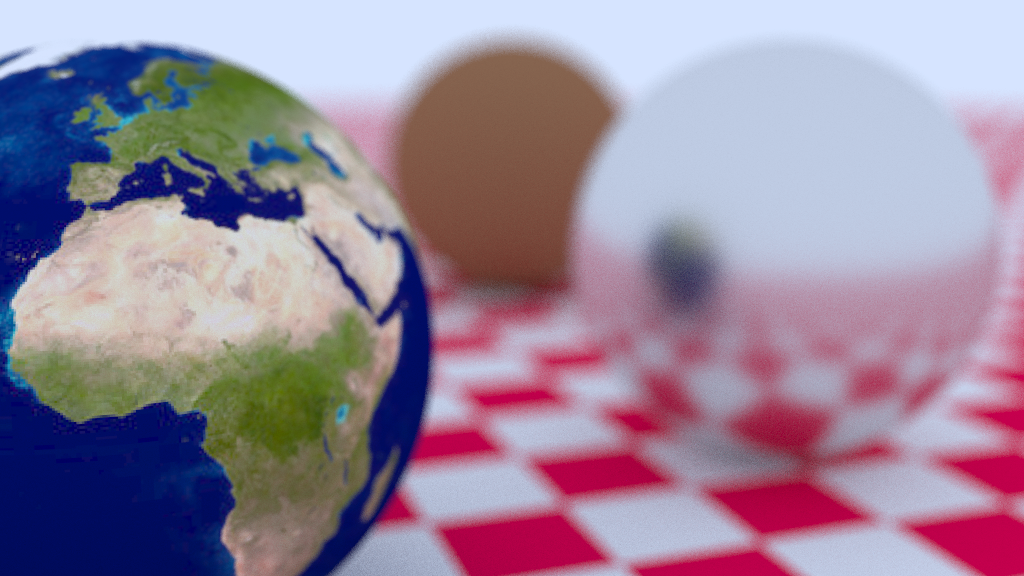
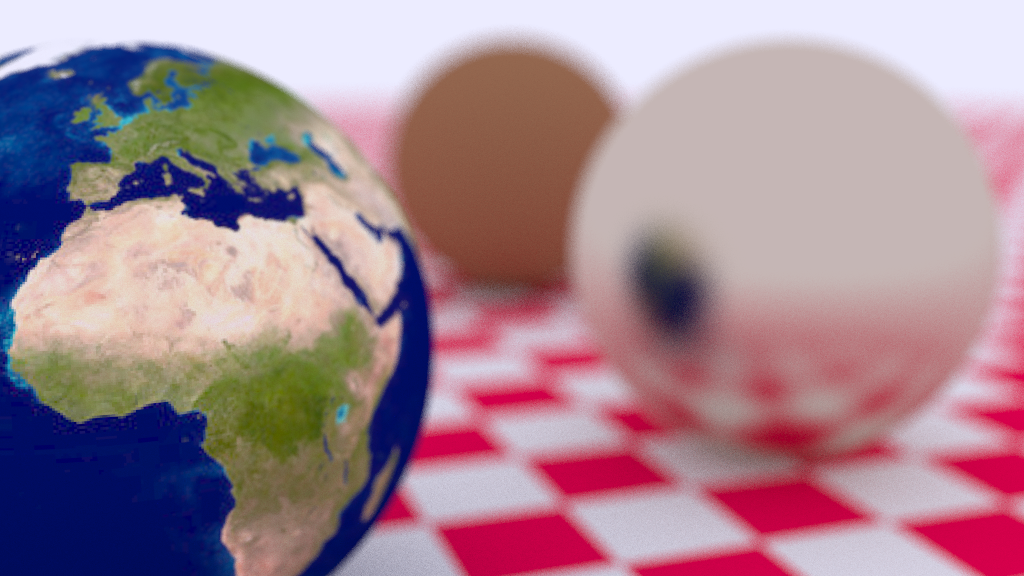
make texture generic so i can support both bump maps and normal maps

Changed region(s): [[0.5625, 0.0625, 0.9688, 0.8125], [0.75, 0.8125, 0.7812, 0.8438]]

diff --git a/src/main.rs b/src/main.rs
@@ -7,7 +7,7 @@ use path_tracer::{
     hittable::{Quad, Sphere, World},
     light::PointLight,
     material::{Diffuse, DiffuseLight, MaterialType, MixMaterial, Refractive, Specular},
-    texture::{CheckerTexture, ImageTexture},
+    texture::{CheckerTexture, ImageTexture, SolidTexture},
     vec3::{random_vector, random_vector_range, Vec3},
 };
 use rand::{thread_rng, Rng};
@@ -15,8 +15,9 @@ use rand::{thread_rng, Rng};
 fn balls_scene() {
     let mut world = World::new();
 
-    let checker_tex =
-        CheckerTexture::from_colors(0.32, Vec3::new(0.2, 0.3, 0.1), Vec3::new(0.9, 0.9, 0.9));
+    let tex1 = SolidTexture::new(Vec3::new(0.2, 0.3, 0.1));
+    let tex2 = SolidTexture::new(Vec3::new(0.9, 0.9, 0.9));
+    let checker_tex = CheckerTexture::new(0.32, Arc::new(tex1), Arc::new(tex2));
 
     let mat_ground = MaterialType::DIFFUSE(Diffuse::new(Arc::new(checker_tex)));
 
@@ -97,11 +98,12 @@ fn earth_scene() {
     let mat2 = MaterialType::DIFFUSE(Diffuse::from_rgb(Vec3::new(0.4, 0.2, 0.1)));
     world.add(Sphere::new_still(1.0, Vec3::new(0.0, 1.0, 0.0), mat2));
 
-    let mat3 = MaterialType::SPECULAR(Specular::from_rgb(Vec3::new(0.7, 0.6, 0.5), 0.0));
+    let mat3 = MaterialType::SPECULAR(Specular::from_rgb(Vec3::new(0.7, 0.6, 0.5), 0.5));
     world.add(Sphere::new_still(1.0, Vec3::new(4.0, 1.0, 0.0), mat3));
 
-    let checker_tex =
-        CheckerTexture::from_colors(0.62, Vec3::new(0.9, 0.0, 0.1), Vec3::new(0.9, 0.9, 0.9));
+    let tex1 = SolidTexture::new(Vec3::new(0.9, 0.0, 0.1));
+    let tex2 = SolidTexture::new(Vec3::new(0.9, 0.9, 0.9));
+    let checker_tex = CheckerTexture::new(0.62, Arc::new(tex1), Arc::new(tex2));
     let mat_ground = MaterialType::DIFFUSE(Diffuse::new(Arc::new(checker_tex)));
     world.add(Sphere::new_still(
         1000.0,
@@ -126,7 +128,7 @@ fn earth_scene() {
     camera.focal_length = 2.869817807;
     camera.defocus_angle = 2.5;
 
-    camera.ambient_light = Vec3::new(0.7, 0.8, 1.0);
+    camera.ambient_light = Vec3::new(0.85, 0.85, 1.0);
 
     camera.init();
     camera.render(&world, "demo/earth.png");
@@ -302,17 +304,17 @@ fn cornell_box_scene() {
 
     let mat = MaterialType::TEST(PrincipledBSDF::new(
         Vec3::new(0.65, 0.05, 0.05), // base_color,
-        0.01,                     // metallic,
-        0.01,                     // roughness,
-        0.01,                     // subsurface,
-        0.91,                     // specular,
-        0.91,                     // specular_tint,
-        1.5,                      // ior,
-        0.01,                     // spec_trans,
-        0.91,                     // sheen,
-        0.91,                     // sheen_tint,
-        0.91,                     // clearcoat,
-        0.01,                     // clearcoat_gloss,
+        0.01,                        // metallic,
+        0.01,                        // roughness,
+        0.01,                        // subsurface,
+        0.91,                        // specular,
+        0.91,                        // specular_tint,
+        1.5,                         // ior,
+        0.01,                        // spec_trans,
+        0.91,                        // sheen,
+        0.91,                        // sheen_tint,
+        0.91,                        // clearcoat,
+        0.01,                        // clearcoat_gloss,
     ));
     world.add(Sphere::new_still(
         105.0,
@@ -441,7 +443,7 @@ fn test_scene() {
 fn main() {
     env::set_var("RUST_BACKTRACE", "1");
 
-    let x = 5;
+    let x = 2;
     match x {
         1 => balls_scene(),
         2 => earth_scene(),

diff --git a/src/texture.rs b/src/texture.rs
@@ -4,58 +4,44 @@ use image::{ImageBuffer, ImageReader, Pixel, Rgb};
 
 use crate::vec3::Vec3;
 
-pub trait Texture: Send + Sync {
-    fn value(&self, u: f64, v: f64, point: &Vec3) -> Vec3;
+pub trait Texture<T: Clone + Send + Sync>: Send + Sync {
+    fn value(&self, u: f64, v: f64, point: &Vec3) -> T;
 }
 
-pub struct SolidColorTexture {
-    albedo: Vec3,
+pub struct SolidTexture<T> {
+    value: T,
 }
 
-impl SolidColorTexture {
-    pub fn new(r: f64, g: f64, b: f64) -> SolidColorTexture {
-        SolidColorTexture {
-            albedo: Vec3::new(r, g, b),
-        }
-    }
-
-    pub fn from_vec(albedo: Vec3) -> SolidColorTexture {
-        SolidColorTexture { albedo }
+impl<T> SolidTexture<T> {
+    pub fn new(value: T) -> Self {
+        SolidTexture { value }
     }
 }
 
-impl Texture for SolidColorTexture {
-    fn value(&self, _u: f64, _v: f64, _point: &Vec3) -> Vec3 {
-        self.albedo
+impl<T: Clone + Send + Sync> Texture<T> for SolidTexture<T> {
+    fn value(&self, _u: f64, _v: f64, _point: &Vec3) -> T {
+        self.value.clone()
     }
 }
 
-pub struct CheckerTexture {
+pub struct CheckerTexture<T> {
     inv_scale: f64,
-    tex1: Arc<dyn Texture>,
-    tex2: Arc<dyn Texture>,
+    tex1: Arc<dyn Texture<T>>,
+    tex2: Arc<dyn Texture<T>>,
 }
 
-impl CheckerTexture {
-    pub fn new(scale: f64, tex1: Arc<dyn Texture>, tex2: Arc<dyn Texture>) -> CheckerTexture {
+impl<T> CheckerTexture<T> {
+    pub fn new(scale: f64, tex1: Arc<dyn Texture<T>>, tex2: Arc<dyn Texture<T>>) -> Self {
         CheckerTexture {
             inv_scale: scale.recip(),
             tex1,
             tex2,
         }
     }
-
-    pub fn from_colors(scale: f64, color1: Vec3, color2: Vec3) -> CheckerTexture {
-        CheckerTexture {
-            inv_scale: scale.recip(),
-            tex1: Arc::new(SolidColorTexture::from_vec(color1)),
-            tex2: Arc::new(SolidColorTexture::from_vec(color2)),
-        }
-    }
 }
 
-impl Texture for CheckerTexture {
-    fn value(&self, u: f64, v: f64, point: &Vec3) -> Vec3 {
+impl<T: Clone + Send + Sync> Texture<T> for CheckerTexture<T> {
+    fn value(&self, u: f64, v: f64, point: &Vec3) -> T {
         let x = (point.x * self.inv_scale).floor() as i32;
         let y = (point.y * self.inv_scale).floor() as i32;
         let z = (point.z * self.inv_scale).floor() as i32;
@@ -82,7 +68,7 @@ impl ImageTexture {
     }
 }
 
-impl Texture for ImageTexture {
+impl Texture<Vec3> for ImageTexture {
     fn value(&self, u: f64, v: f64, _point: &Vec3) -> Vec3 {
         if self.img.height() == 0 {
             return Vec3::new(0.0, 1.0, 1.0);

diff --git a/src/material.rs b/src/material.rs
@@ -6,7 +6,7 @@ use crate::{
     bsdf::principled::PrincipledBSDF,
     hittable::hit_info::HitInfo,
     ray::Ray,
-    texture::{SolidColorTexture, Texture},
+    texture::{SolidTexture, Texture},
     vec3::{random_vector, Vec3},
 };
 
@@ -22,17 +22,17 @@ pub trait Material: Send + Sync {
 
 #[derive(Clone)]
 pub struct Diffuse {
-    texture: Arc<dyn Texture>,
+    texture: Arc<dyn Texture<Vec3>>,
 }
 
 impl Diffuse {
-    pub fn new(texture: Arc<dyn Texture>) -> Diffuse {
+    pub fn new(texture: Arc<dyn Texture<Vec3>>) -> Diffuse {
         Diffuse { texture }
     }
 
     pub fn from_rgb(rgb: Vec3) -> Diffuse {
         Diffuse {
-            texture: Arc::new(SolidColorTexture::from_vec(rgb)),
+            texture: Arc::new(SolidTexture::new(rgb)),
         }
     }
 }
@@ -68,18 +68,18 @@ impl Material for Diffuse {
 
 #[derive(Clone)]
 pub struct Specular {
-    texture: Arc<dyn Texture>,
+    texture: Arc<dyn Texture<Vec3>>,
     roughness: f64,
 }
 
 impl Specular {
-    pub fn new(texture: Arc<dyn Texture>, roughness: f64) -> Specular {
+    pub fn new(texture: Arc<dyn Texture<Vec3>>, roughness: f64) -> Specular {
         Specular { texture, roughness }
     }
 
     pub fn from_rgb(rgb: Vec3, roughness: f64) -> Specular {
         Specular {
-            texture: Arc::new(SolidColorTexture::from_vec(rgb)),
+            texture: Arc::new(SolidTexture::new(rgb)),
             roughness,
         }
     }
@@ -152,24 +152,24 @@ impl Material for Refractive {
 
 #[derive(Clone)]
 pub struct DiffuseLight {
-    texture: Arc<dyn Texture>,
+    emission: Arc<dyn Texture<Vec3>>,
 }
 
 impl DiffuseLight {
-    pub fn new(texture: Arc<dyn Texture>) -> Self {
-        Self { texture }
+    pub fn new(texture: Arc<dyn Texture<Vec3>>) -> Self {
+        Self { emission: texture }
     }
 
     pub fn from_rgb(rgb: Vec3) -> Self {
         Self {
-            texture: Arc::new(SolidColorTexture::from_vec(rgb)),
+            emission: Arc::new(SolidTexture::new(rgb)),
         }
     }
 }
 
 impl Material for DiffuseLight {
     fn emitted(&self, u: f64, v: f64, p: Vec3) -> Vec3 {
-        self.texture.value(u, v, &p)
+        self.emission.value(u, v, &p)
     }
 
     fn scatter(&self, _ray: &Ray, _hit_info: &HitInfo) -> (Vec3, Option<Ray>) {

diff --git a/src/bsdf/principled.rs b/src/bsdf/principled.rs
@@ -55,17 +55,6 @@ impl PrincipledBSDF {
         clearcoat: f64,
         clearcoat_gloss: f64,
     ) -> Self {
-        // let diffuse_component = DiffuseBRDF::new(base_color, roughness, subsurface);
-
-        // let c_tint = tint(base_color);
-        // let r0 = r0(ior);
-        // let ks = Vec3::ONE.lerp(c_tint, specular_tint);
-        // let c0 = (specular * r0 * ks).lerp(base_color, metallic);
-        // let metal_component = MetalBRDF::new(c0, roughness);
-
-        // let glass_component = GlassBSDF::new(base_color, roughness, ior);
-        // let clearcoat_component = ClearcoatBRDF::new(clearcoat_gloss);
-        // let sheen_component = SheenBRDF::new(base_color, sheen_tint);
         Self {
             base_color,
             metallic,
@@ -390,3 +379,4 @@ impl Material for PrincipledBSDF {
         (brdf_weight, Some(next_ray))
     }
 }
+
